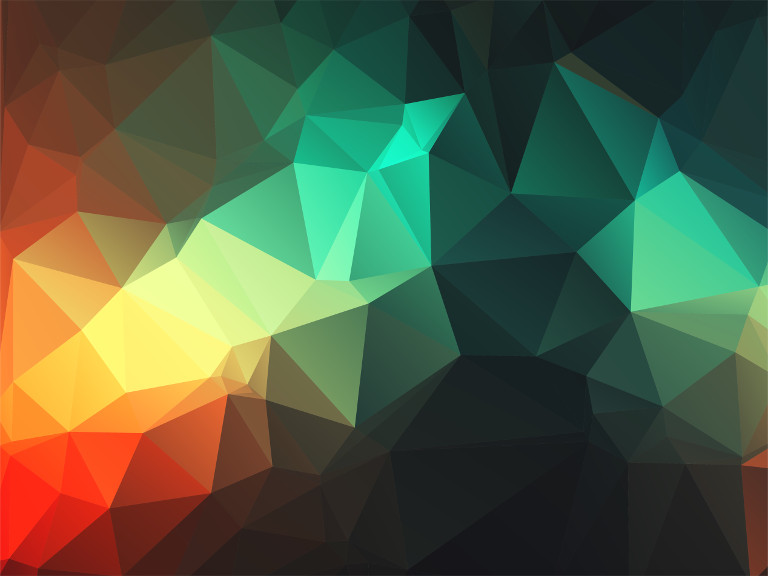
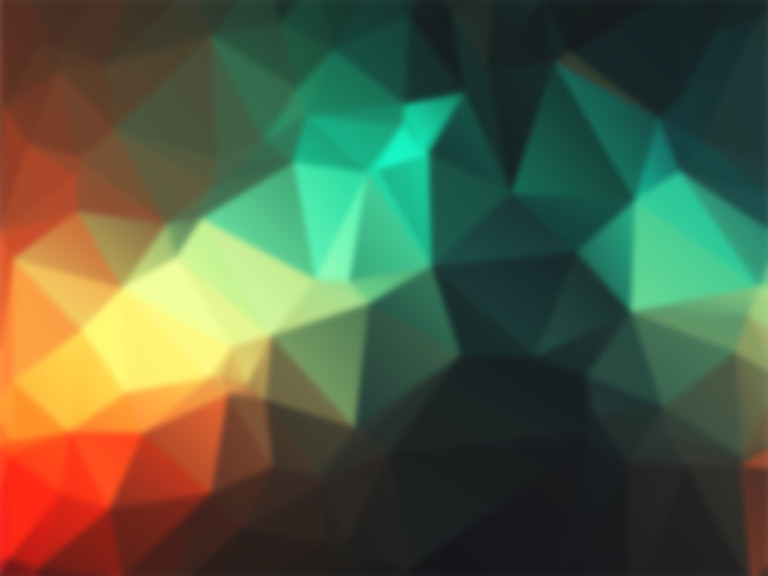
Removed blur from styles

diff --git a/src/app/window-pane/window-pane.component.scss b/src/app/window-pane/window-pane.component.scss
@@ -1,25 +1,31 @@
 @import 'src/styles/variables';
 @import 'src/styles/mixins';
 
-$image: 'assets/pics/xs/stained-glass-background.jpg';
+$raindrop-bkg: 'assets/pics/xs/stained-glass-background-clear.jpg';
 
-@media screen and (min-width: 600px) {
-  $image: 'assets/pics/sm/stained-glass-background.jpg';
+@mixin styling($image) {
+  .window {
+    background-image: url($image);
+  }
+}
+
+@media screen and (max-width: $menu-breakpoint - 1) {
+  @include styling($image: 'assets/pics/xs/stained-glass-background.jpg');
+}
+@media screen and (min-width: $menu-breakpoint) {
+  @include styling($image: 'assets/pics/sm/stained-glass-background.jpg');
 }
 @media screen and (min-width: 992px) {
-  $image: 'assets/pics/md/stained-glass-background.jpg';
+  @include styling($image: 'assets/pics/md/stained-glass-background.jpg');
 }
-
-@media screen and (min-width: 1200px) {
-  $image: 'assets/pics/lg/stained-glass-background.jpg';
+@media screen and (min-width: $flex-breakpoint) {
+  @include styling($image: 'assets/pics/lg/stained-glass-background.jpg');
 }
-
 @media screen and (min-width: 1900px) {
-  $image: 'assets/pics/xl/stained-glass-background.jpg';
+  @include styling($image: 'assets/pics/xl/stained-glass-background.jpg');
 }
-
 @media screen and (min-width: 2560px) {
-  $image: 'assets/pics/stained-glass-background.jpg';
+  @include styling($image: 'assets/pics/stained-glass-background.jpg');
 }
 
 .window-pane-container {
@@ -29,13 +35,11 @@ $image: 'assets/pics/xs/stained-glass-background.jpg';
 
 .window {
   position: absolute;
-  width: calc(#{$width} + 4*#{$blur});
-  height: calc(100% + 4*#{$blur});
-  background-image: url($image);
+  width: 100%;
+  height: 100%;
   background-size: cover;
   background-position: top;
-  filter: blur($blur);
-  margin: calc(-2*#{$blur});
+  // margin: calc(-2*#{$blur});
 }
 
 .content-container {
@@ -94,7 +98,7 @@ $raindrops:75;
 .raindrop{
 	position: absolute;
   border-radius: 100%;
-	background-image: url($image);
+	background-image: url($raindrop-bkg);
 	background-size: $width*0.05 $height*0.05;
   background-position: 50%;
 	transform: rotate(180deg) rotateY(0);

diff --git a/src/app/rainy-day/rainy-day.component.scss b/src/app/rainy-day/rainy-day.component.scss
@@ -45,6 +45,7 @@ h2 {
 .mouse-container {
   position: absolute;
   bottom: 0;
+  z-index: 9;
 }
 
 @media screen and (min-width: $menu-breakpoint) {

diff --git a/src/styles/_variables.scss b/src/styles/_variables.scss
@@ -14,7 +14,6 @@ $flex-breakpoint: 1280px;
 
 $width:100vw;
 $height:100vh;
-$blur: 10px;
 
 $slope-offset: 15vmax;
 $pane-border: 4px;
